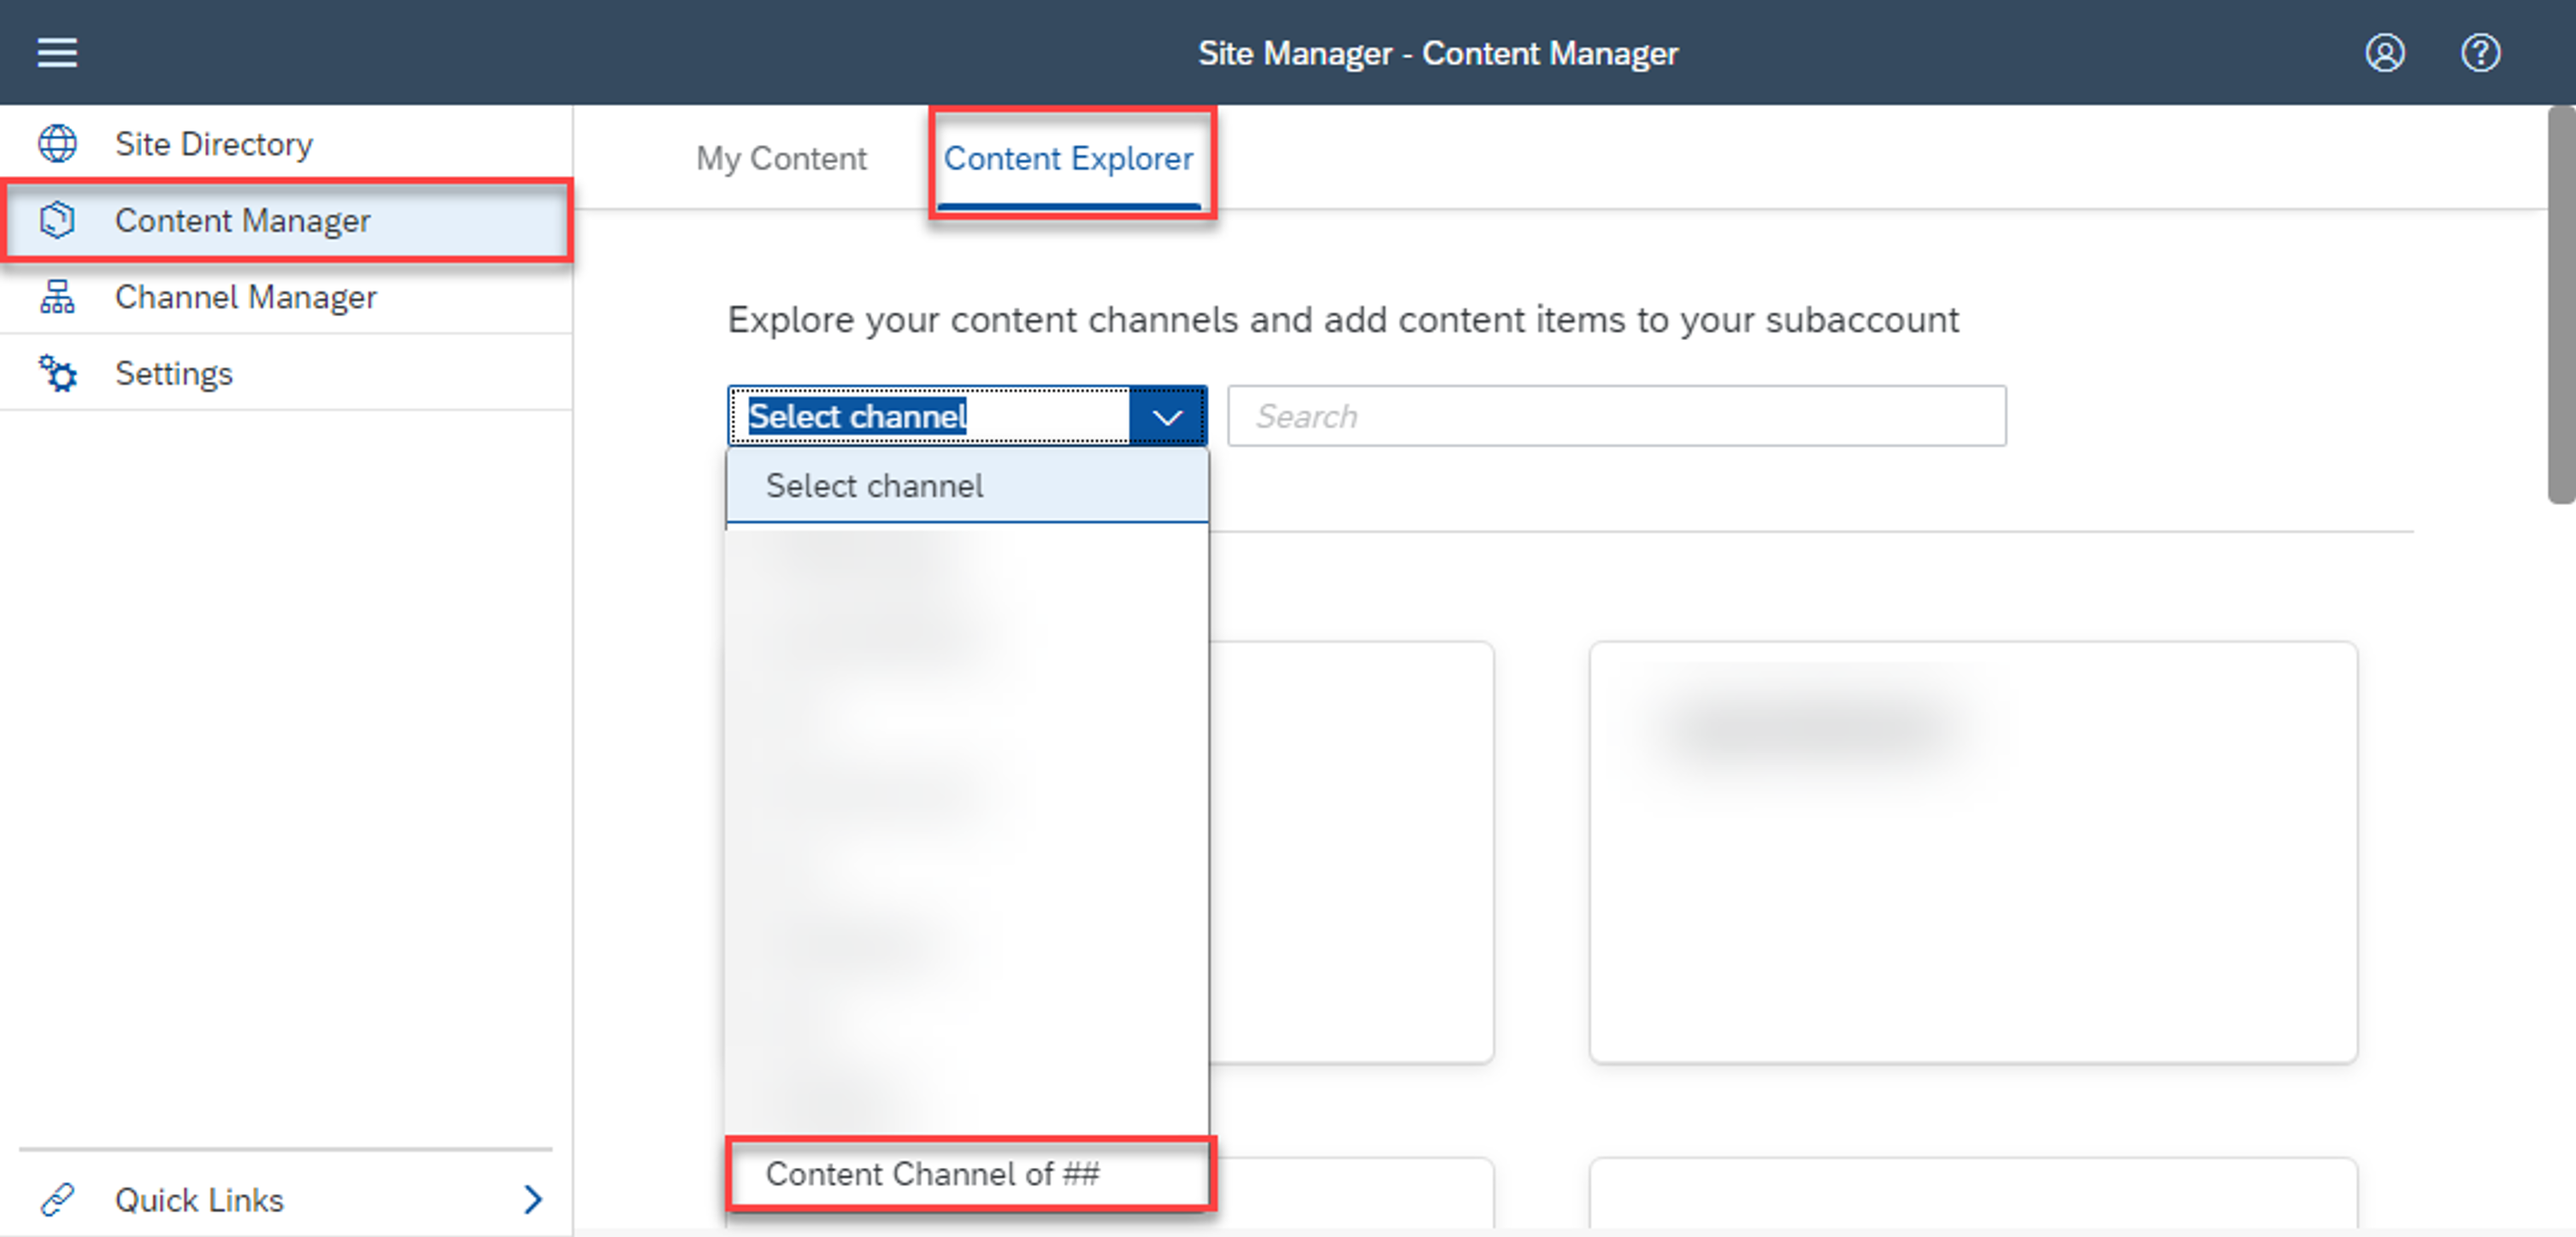
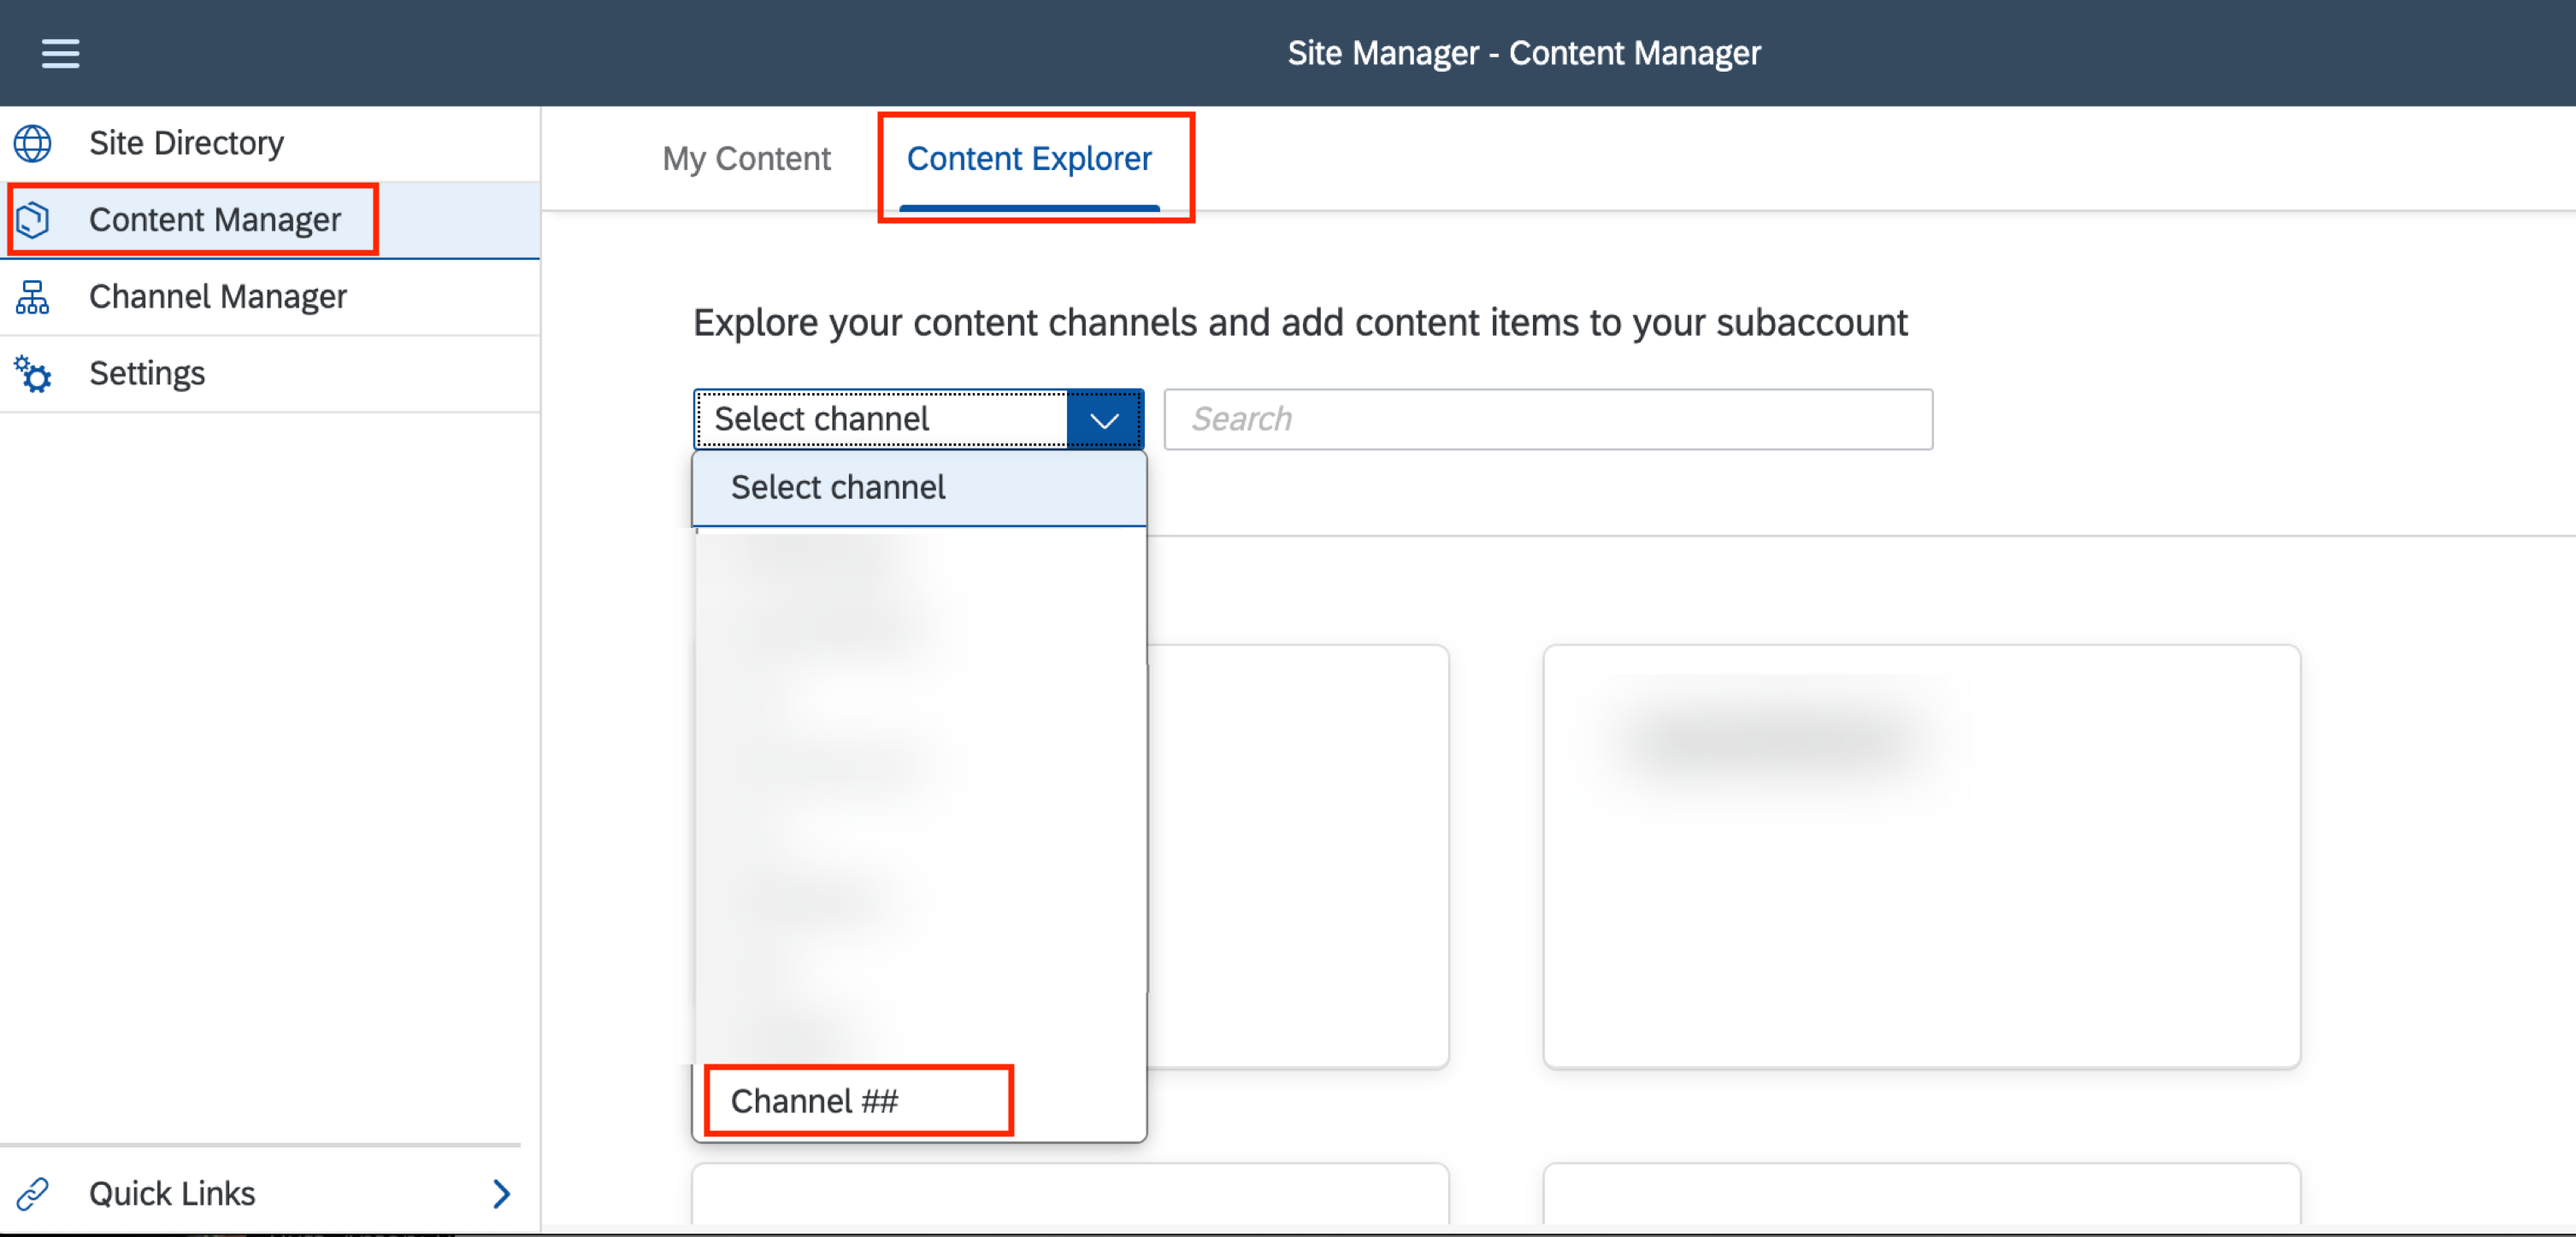
Updating naming

diff --git a/exercises/ex1/README.md b/exercises/ex1/README.md
@@ -29,7 +29,7 @@
 
     |Name|Value|Description|
     | ----------------------- | ----------------------------------------------------- | ------------------------------------ |
-    | Title                   | `Content Channel of ##` (*use your number instead of ##*) | Name / Title of Content Channel – often similar to the name of the provider system |
+    | Title                   | `Channel ##` (*use your number instead of ##*) | Name / Title of Content Channel – often similar to the name of the provider system |
     | Description             | -                                                       | Optional field for further description |
     | ID                      | `Channel_##` (*use your number instead of ##*)            | ID of Content Channel - gets auto filled based on Title (max 20 characters) |
     | Design-Time Destination | `he4dt`                                         | Design-Time destination of provider system - based on configured Destinations in the Subaccount|
